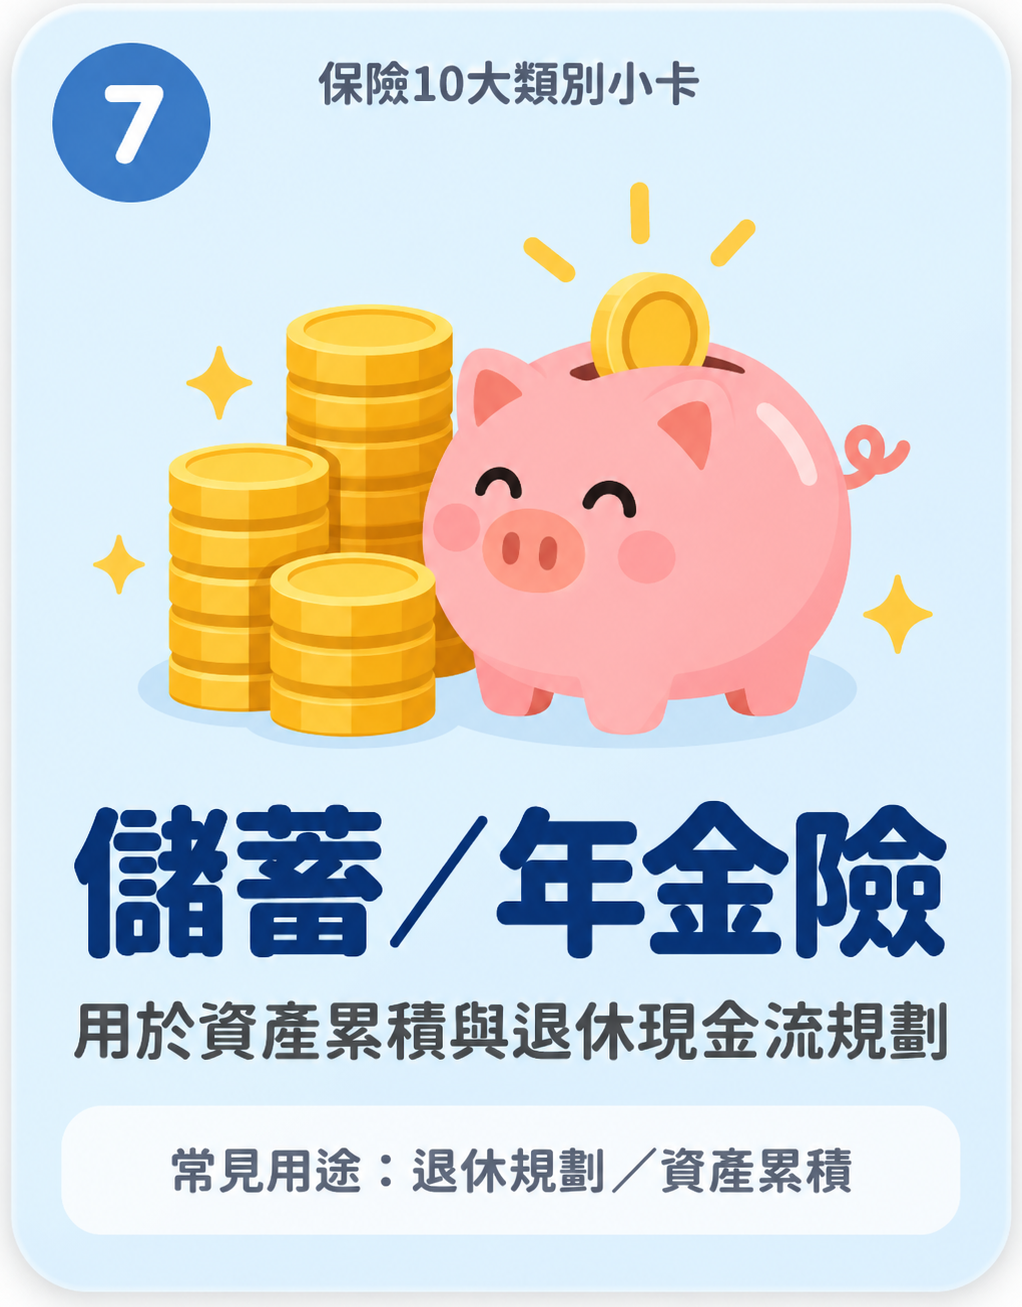
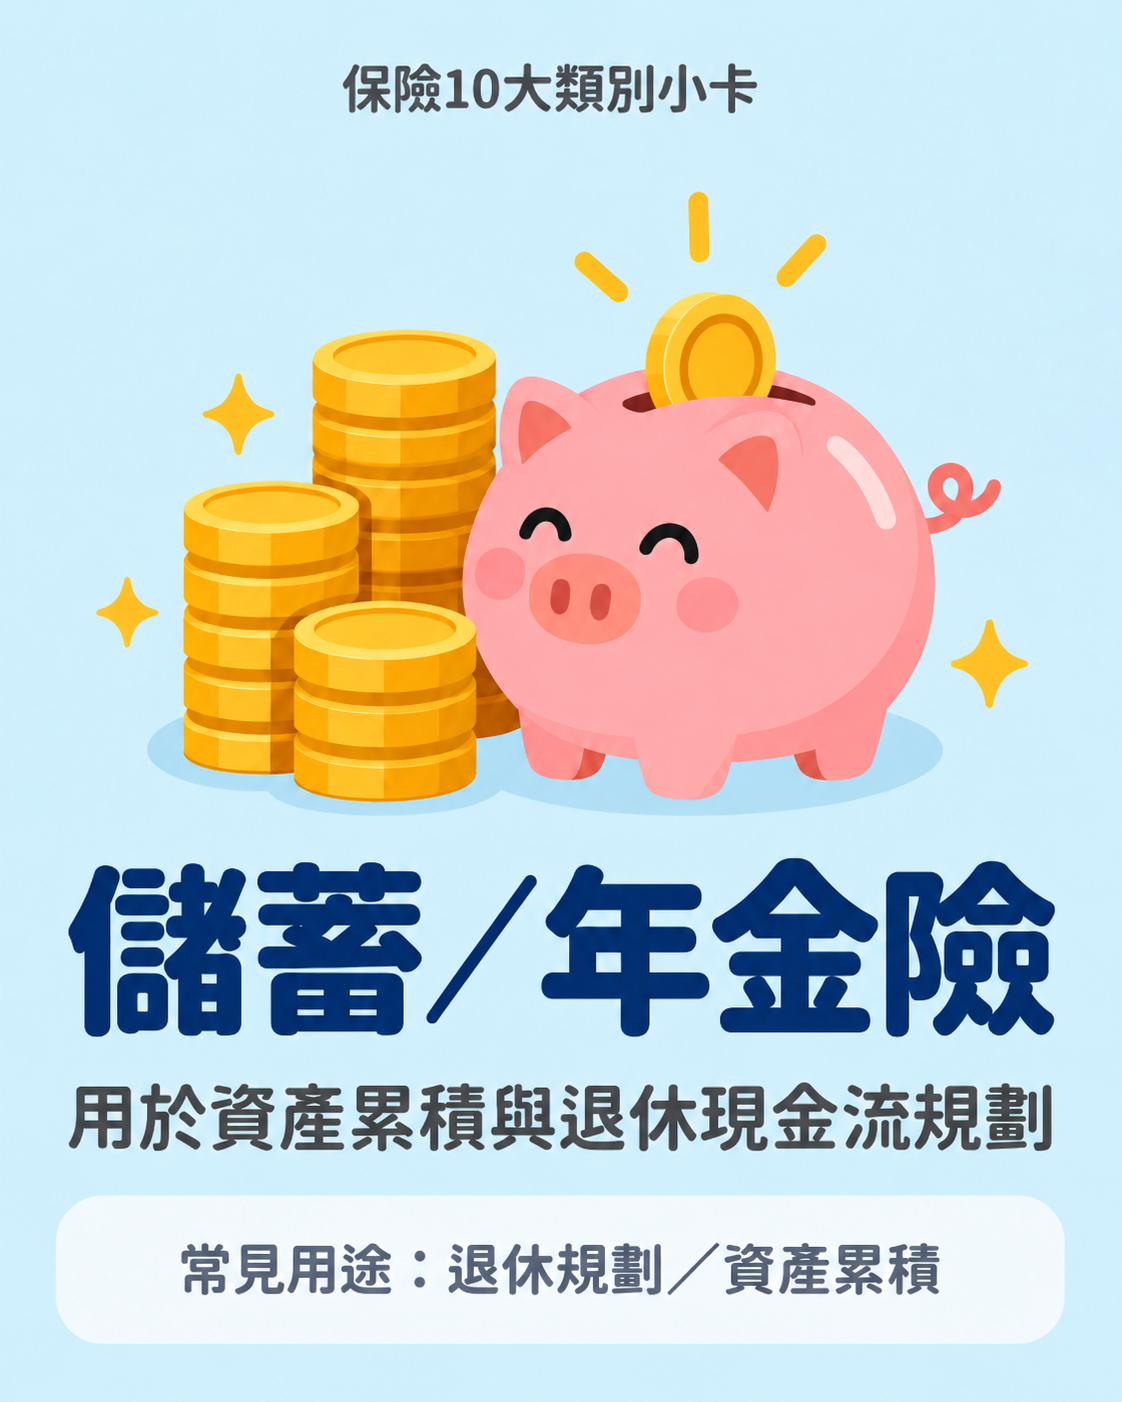
更新重新上傳之去編號保險卡片，調整比例與樣式

diff --git a/index.html b/index.html
@@ -5,7 +5,7 @@
     <meta charset="UTF-8">
     <meta name="viewport" content="width=device-width, initial-scale=1.0, maximum-scale=1.0, user-scalable=no">
     <title>Magic Card Selection</title>
-    <link rel="stylesheet" href="style.css?v=2.0">
+    <link rel="stylesheet" href="style.css?v=3.0">
     <link href="https://fonts.googleapis.com/css2?family=Inter:wght@300;600&display=swap" rel="stylesheet">
 </head>
 
@@ -39,7 +39,7 @@
         </div>
     </div>
 
-    <script src="script.js"></script>
+    <script src="script.js?v=3.0"></script>
 </body>
 
 </html>

diff --git a/style.css b/style.css
@@ -85,9 +85,9 @@ body, html {
 /* Base Card Styles */
 .card {
     width: min(88vw, 68vh);
-    aspect-ratio: 1020 / 1315;
+    aspect-ratio: 1122 / 1402;
     position: relative;
-    border-radius: min(5vw, 22px);
+    border-radius: min(4.5vw, 20px);
     overflow: hidden;
     container-type: inline-size;
     transform-style: preserve-3d;
